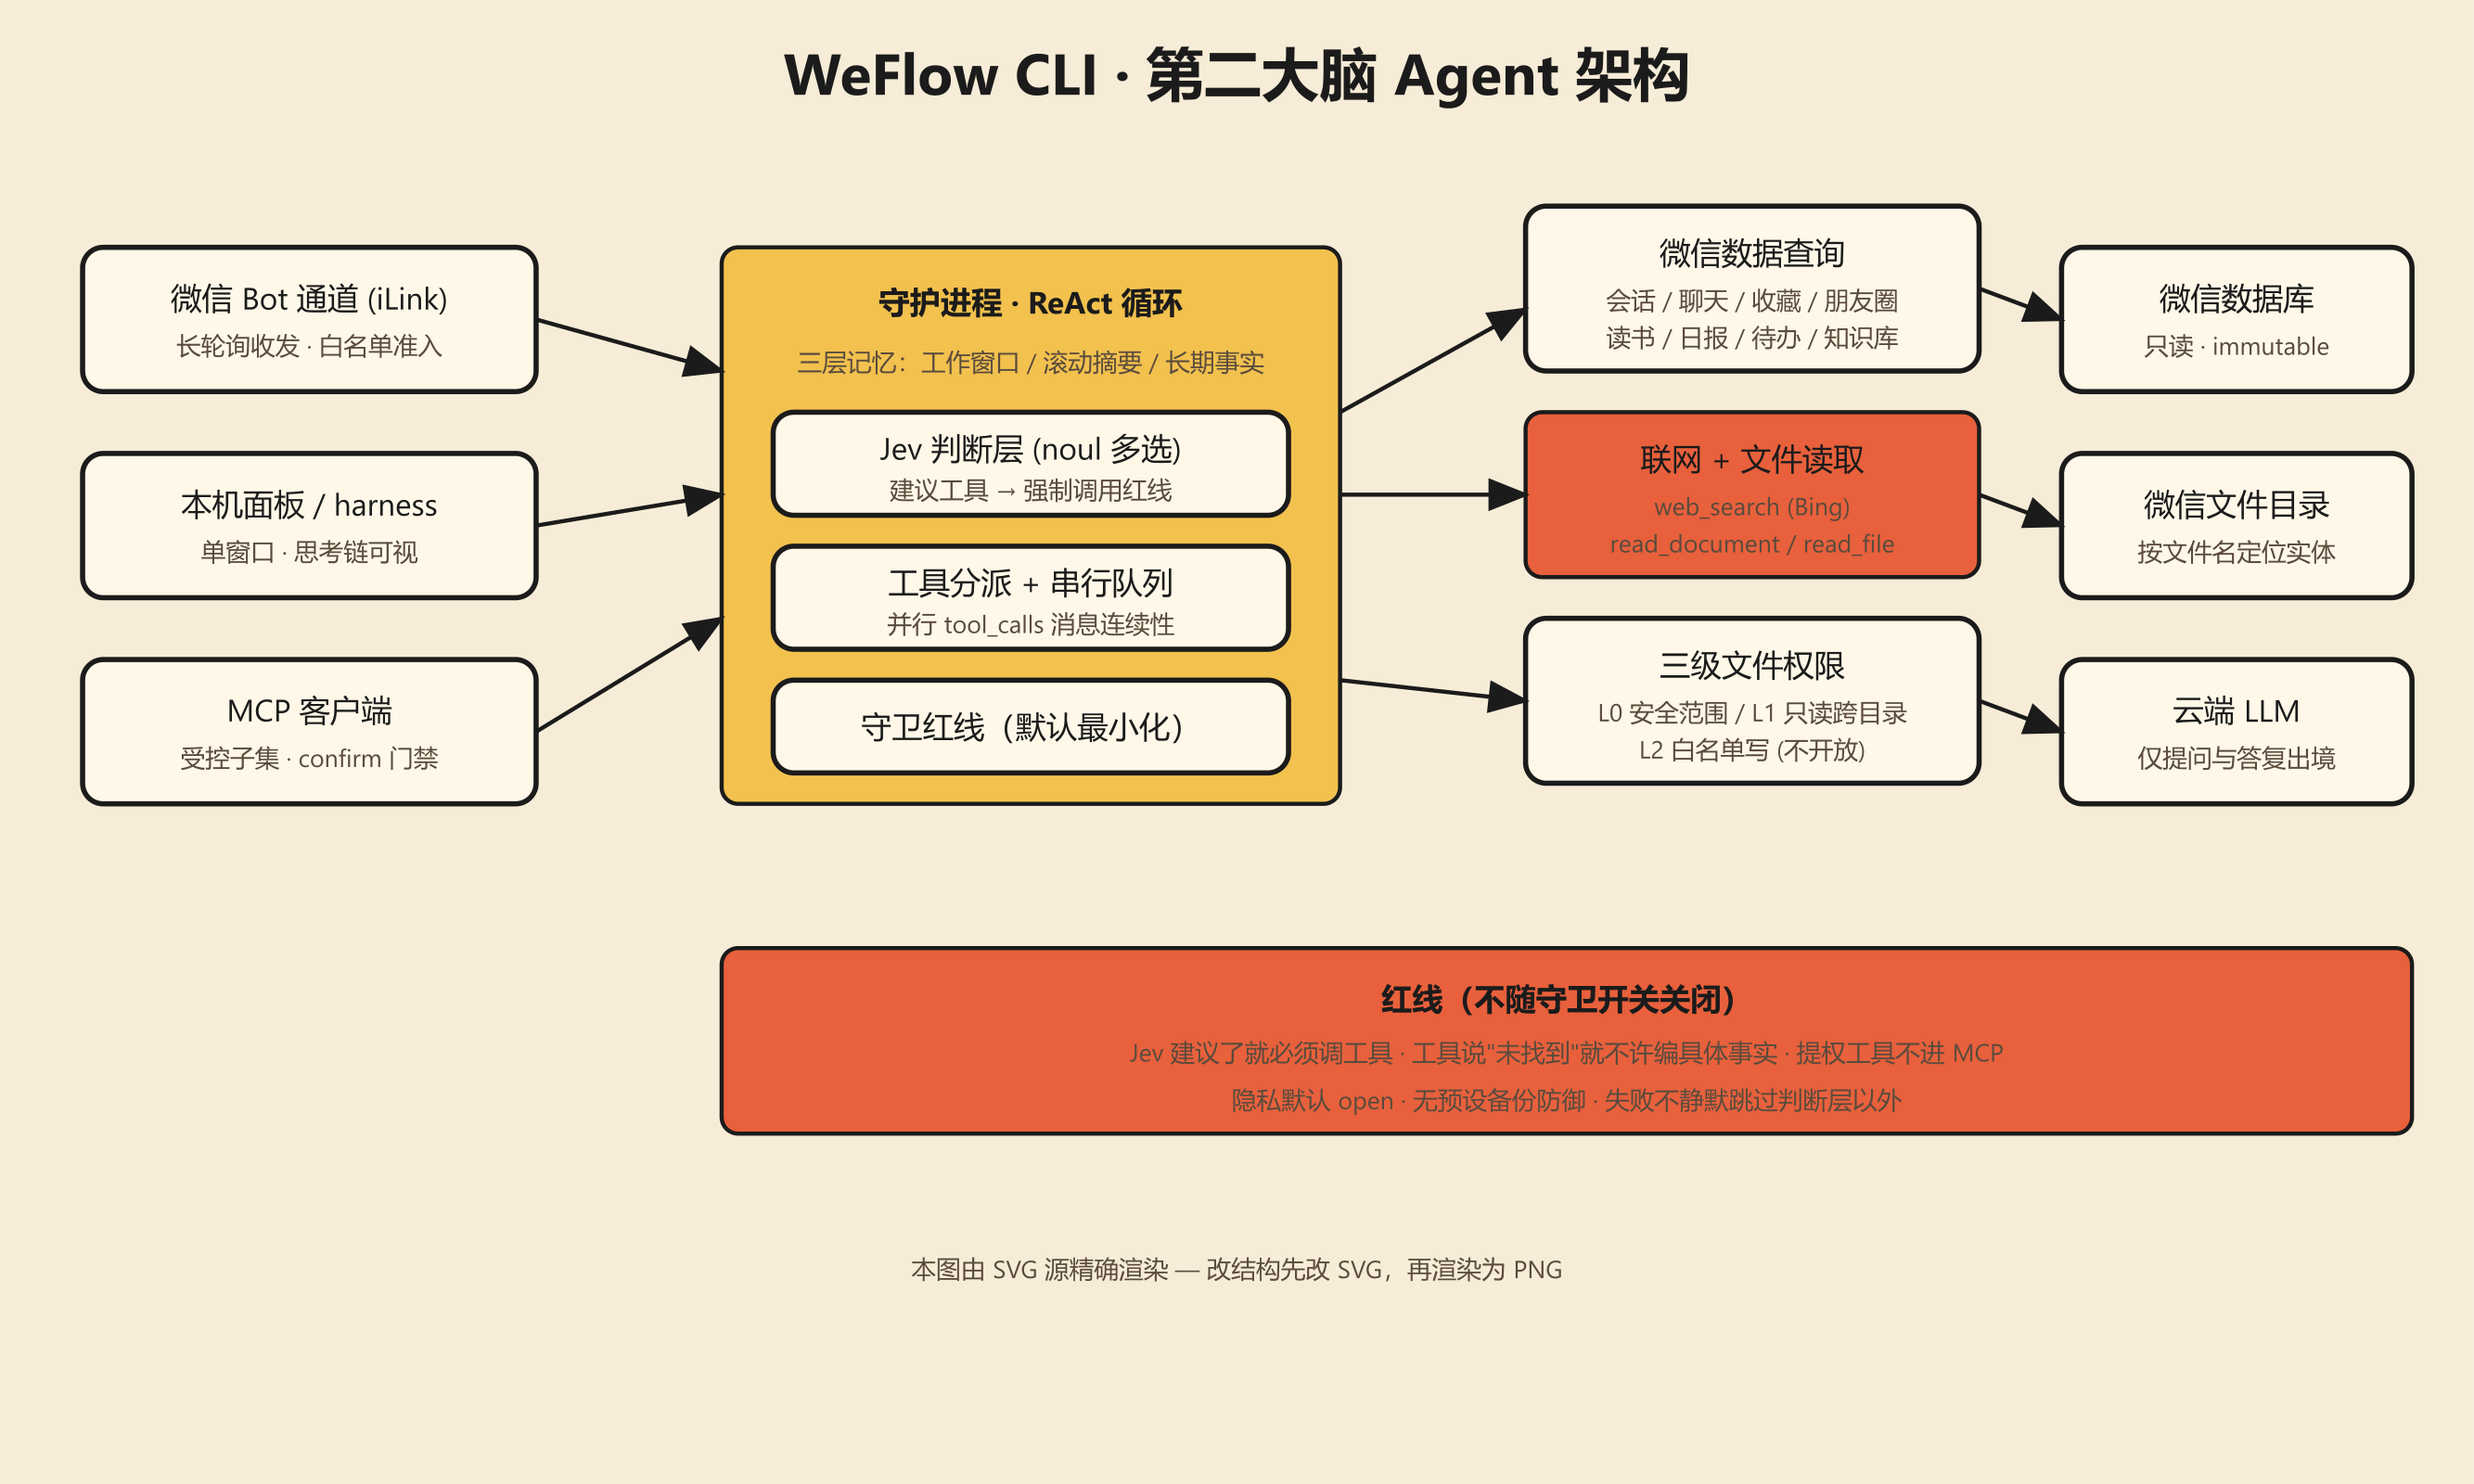
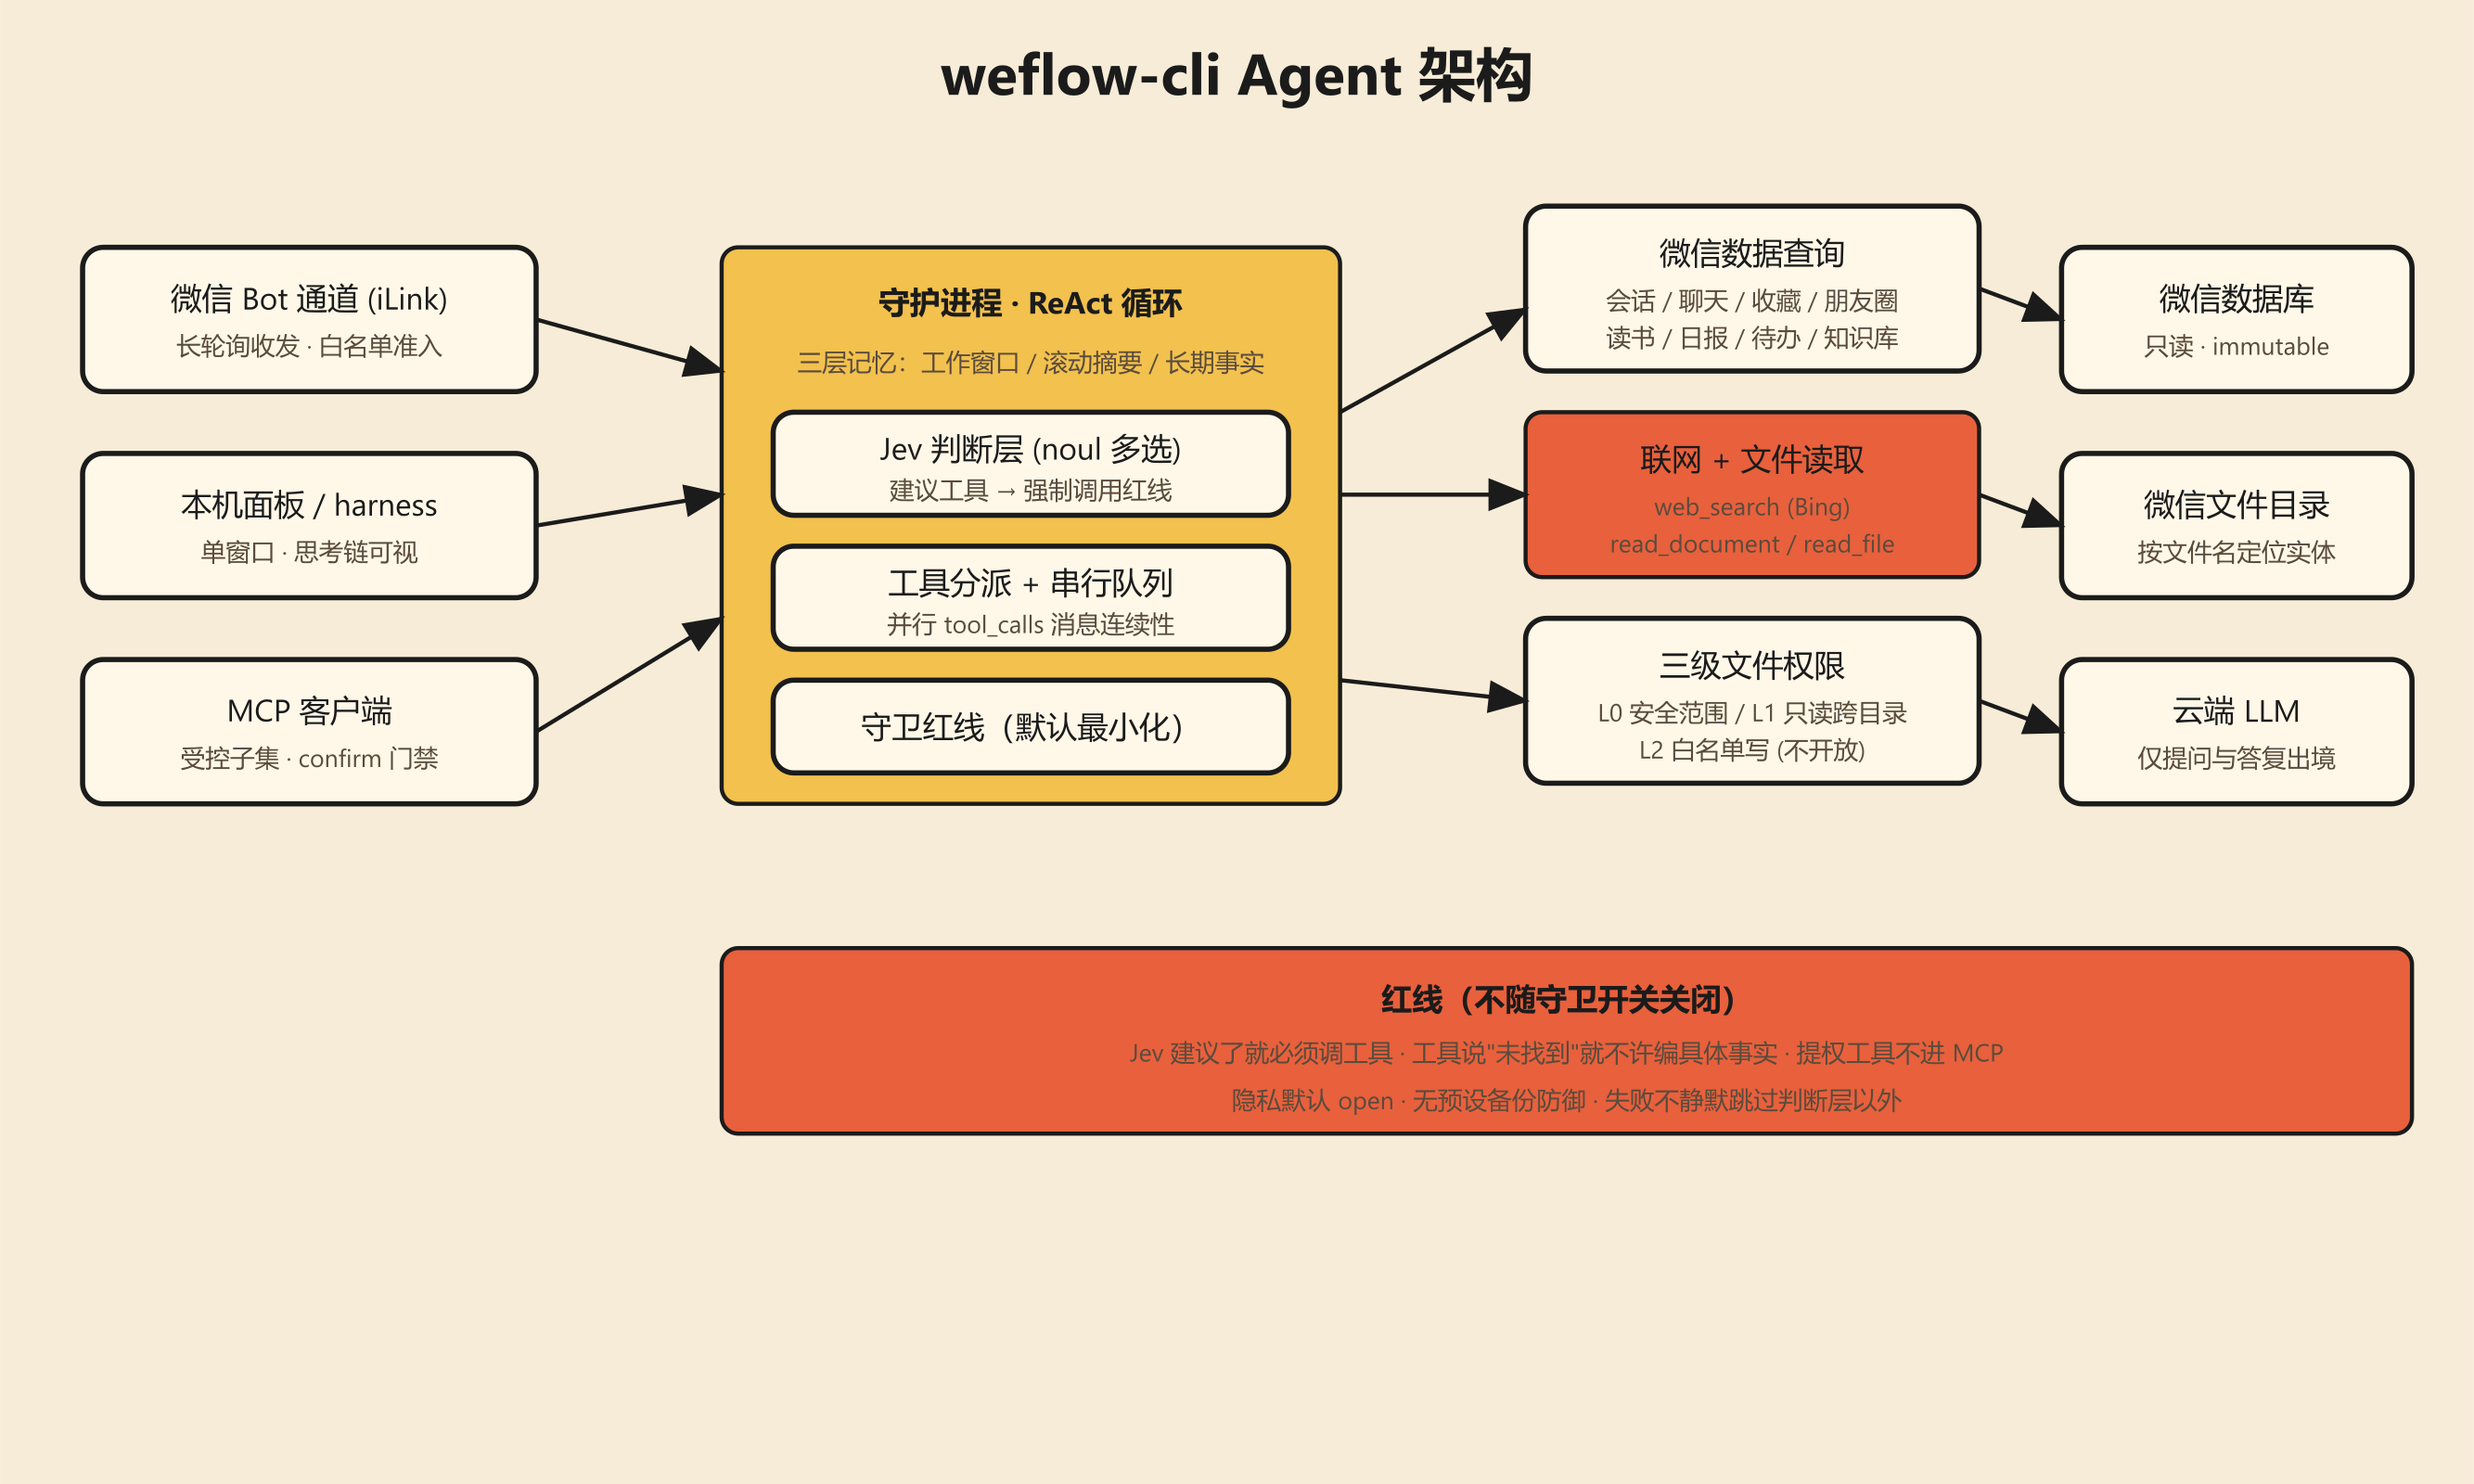
docs: 架构图与 AGENT.md 收尾——weflow-cli Agent 命名、去冗余说明
- 架构图标题 weflow-cli Agent 架构（不用 WeFlow CLI / 第二大脑字样）
- 删掉 SVG 底部'由 SVG 源精确渲染'那行说明
- README 的 Agent 小节标题与表格行同步为 weflow-cli Agent
- AGENT.md 加入仓库（.gitignore 加 !docs/AGENT.md 例外，否则 README 引用是死链）

配图由 SVG 源精确渲染，文字准确；模块连线见 SVG 源。

Changed region(s): [[0.3112, 0.0312, 0.6847, 0.0938], [0.3735, 0.8438, 0.6224, 0.875]]

diff --git a/docs/AGENT.md b/docs/AGENT.md
@@ -1,0 +1,84 @@
+# weflow-cli Agent
+
+这是 weflow-cli 里唯一"会自己决定调什么工具"的部分。README 是门户，本篇收纳它的完整能力、工具清单、权限与可靠性设计；设计取舍的来龙去脉见 [DECISIONS.md](./DECISIONS.md)（按编号查）。
+
+## 它跑在哪
+
+Agent 是守护进程（`weflow-cli assistant start`）里的一个循环。同一个大脑、同一份三层记忆，可以从三个入口进：
+
+| 入口 | 说明 |
+|---|---|
+| 微信 Bot 通道 | 官方 iLink 长轮询收发；默认拒绝所有来信，需配白名单 |
+| 本机面板 | `weflow-cli panel`，悬浮球小窗，不登录微信也能用 |
+| 云手机 harness | 独立浏览器 profile 的单窗口（`?agent=1`），带思考链面板；只连助手、不开会话镜像 |
+
+三个入口共用同一份记忆与每日配额，不会各写一份。
+
+## 一次答复是怎么来的
+
+```
+来信 → 判断层 Jev（一次调用问"可能需要哪些工具"，多选）
+     → ReAct 循环：模型选工具 → 执行 → 看结果 → 再决定，直到给出不带工具调用的答复
+     → 三层记忆落盘（工作窗口 / 滚动摘要 / 长期事实）
+```
+
+- **判断层 Jev**：默认开。一次 `decide.py` 调用问 N 个独立 `noul` 问题，把建议作为参考消息注入。判断失败/没建议时静默跳过，不报错、不影响对话。
+- **强制调用红线**：Jev 建议了工具、模型却零调用就想作答 → 丢弃答复、注入强约束回炉一次（D-202）。只强制一次，防无限重跑。"调多调少、调对调错"暂不纠缠，先保证"必须查"。
+- **工具消息连续性**：同一消息里的多个 `tool_calls` 按 OpenAI 兼容协议连续执行——附加消息（失败提醒、图片）先攒着，等这批 `tool` 消息全部 push 完再追加，否则长链条会触发 400（D-192）。
+
+## 工具清单
+
+工具按"这台机器跑得了什么"动态裁剪——缺依赖的工具不摆进工具表，避免模型去试、拿一串报错回来。
+
+| 类别 | 工具 | 说明 |
+|---|---|---|
+| 微信数据 | `list_sessions` / `get_messages` / `search_chats` / `search_semantic` | 会话、聊天记录（含时间窗）、跨会话检索、语义检索 |
+| 收藏与内容 | `search_favorites` / `read_favorite` / `fetch_article` / `search_public` | 收藏检索与正文、公众号文章抓取、公开文章搜索 |
+| 社交与回顾 | `get_sns` / `get_weread` / `get_daily_report` / `get_review` / `get_stats` | 朋友圈、微信读书、日报、学习回顾、统计 |
+| 待办与记忆 | `get_todos` / `set_todo_status` / `save_memory` / `search_memory` | 待办读取与状态翻转、长期记忆读写 |
+| 知识库 | `search_knowledge` / `get_concepts` / `lint_wiki` / `list_skills` / `read_skill` | 概念页、概念索引、知识库体检、技能包 |
+| 协作 | `draft_reply` / `who_owes_reply` / `list_contacts` / `check_skills` | 回复草稿（只产出文本、不发送）、谁在等回话 |
+| 联网 | `web_search` | 通用网页搜索（Bing 公开搜索页，免 key） |
+| 文件 | `read_file` / `read_document` | 纯文本 / 解析 PDF、Word(.doc/.docx)、Excel(.xls/.xlsx)、PPT(.pptx)、HTML；微信文件可按文件名定位 |
+| 权限 | `escalate` | 自主解锁 L1（工作区外只读）；L2 不通过工具开放 |
+
+**MCP 子集**：MCP 的工具面从这张表派生，去掉 `save_memory`、`look_at_image`、`set_todo_status`，以及提权与文件/联网类的 `escalate`、`read_file`、`read_document`、`web_search`。它**不是纯只读**（`export_chat` 会写文件），但发送消息、发布文章、改配置、写助手记忆都没有工具可达。以 `weflow-cli capabilities --json` 的输出为准。
+
+## 三级文件权限
+
+对齐"默认安全、一级只读、二级人工白名单"的三级定义；这里没有 DSH 沙箱，"权限"= 开放哪些路径：
+
+| 级别 | 语义 | 怎么进 |
+|---|---|---|
+| **L0 默认** | 包目录、`~/.weflow-cli`、微信数据根（dbPath）、会话 cwd 内读写 | 默认就在 |
+| **L1** | 工作区外**只读** | 助手调 `escalate(level=1)` 自主解锁；会话级，重启归零 |
+| **L2** | 工作区外写 / 执行命令 | **白名单人工配置，不实现**——助手本就没有写/执行工具 |
+
+- 路径一律 `resolve` + `realpath` 规范化，`..` 逃逸与符号链接都按真实目标判定。
+- 工作区外的文件读不了时，助手会先 `escalate` 再读——L1 只读，不会写。
+- 微信收到的文件在 `dbPath/<wxid>/msg/file/` 下，`read_document` 传文件名就能定位实体，不用猜路径（D-203）。服务器读老 `.doc/.xls` 依赖 `antiword`/`catdoc`/`xlrd`（系统依赖，换机器需重装）。
+
+## 红线
+
+这几条**独立于守卫总开关**（守卫默认关），是永不关闭的底线：
+
+1. **Jev 建议了就必须调工具**：零工具作答会强制回炉（D-202）。
+2. **工具说"未找到"就不许编**：工具原文含明确否定信号，答复却给出 `《标题》`/数字/来源 → 顶回去（D-205）。真实事故：`read_favorite` 返回未找到，模型却编出整篇摘要，下一轮又说没有——前后冲突。
+3. **提权工具不进 MCP**：外部机器调用没有"用户口头授权"语义，不能机器自主提权。
+4. **不输出内部话术**："被校验拦下 / 内容不可靠 / 不作为后续依据"是记忆写入占位，不是给用户的话（D-196）。
+
+除以上几条，其余守卫（反编造、工具失败提醒等）默认关，可用 `WEFLOW_HARNESS_GUARDS=on` 显式开启。
+
+## 隐私
+
+默认 `assistantPrivacy=open`：聊天正文原样可读、不打码。`balanced`（PII 打码）、`strict`（挡第三方正文）可显式切回；`ollama` 本地引擎完全不出网。仅提问与答复文本发给所配置的 LLM，工具结果里的本机数据按档位决定是否出境。详见 [PRIVACY 相关决策](./DECISIONS.md) 与 [SECURITY.md](../SECURITY.md)。
+
+## 记忆
+
+三层：工作窗口（最近若干轮原话）、滚动摘要、长期事实。事实带来源原话与写入时间，面板「记忆」按钮可查（只读）。模型每轮看到的记忆由 `selectFactsForInjection` 筛选——**测试时注意：反复用同一个问句会把"问句→答复"绑进记忆，污染后续测试**。每版测试前用 `fresh-test.mjs`（在 `_tools/wx-mirror/`）清桶开新会话。
+
+## 架构图
+
+![WeFlow Agent architecture](./images/weflow-agent-architecture.png)
+
+模块与连线以可维护源 [weflow-agent-architecture.svg](./images/weflow-agent-architecture.svg) 为准。
